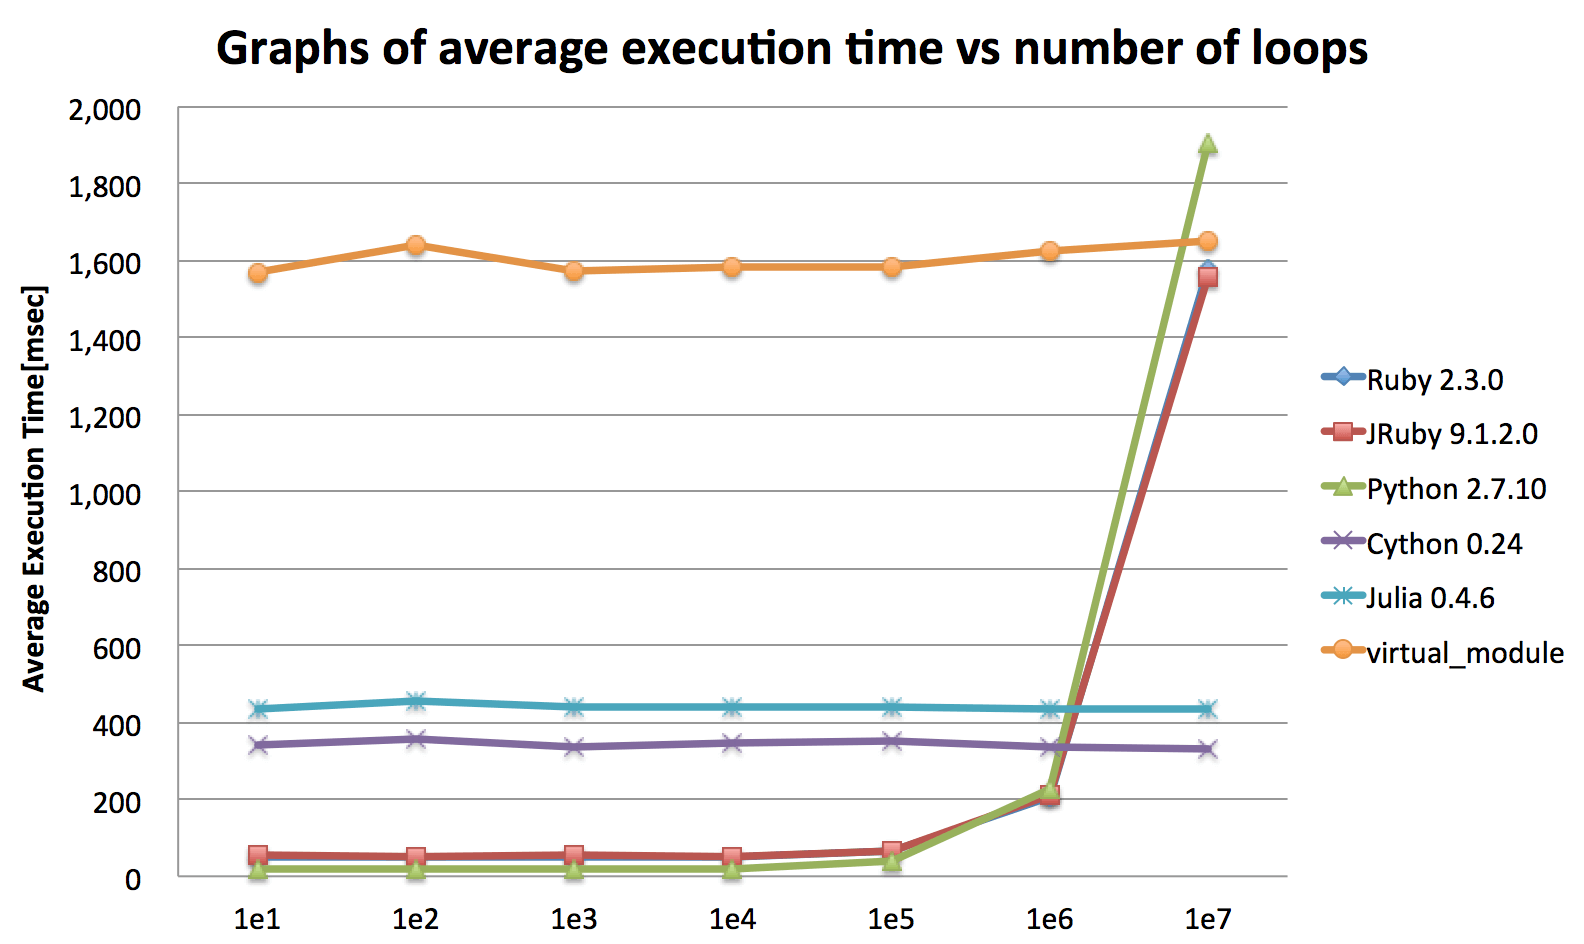
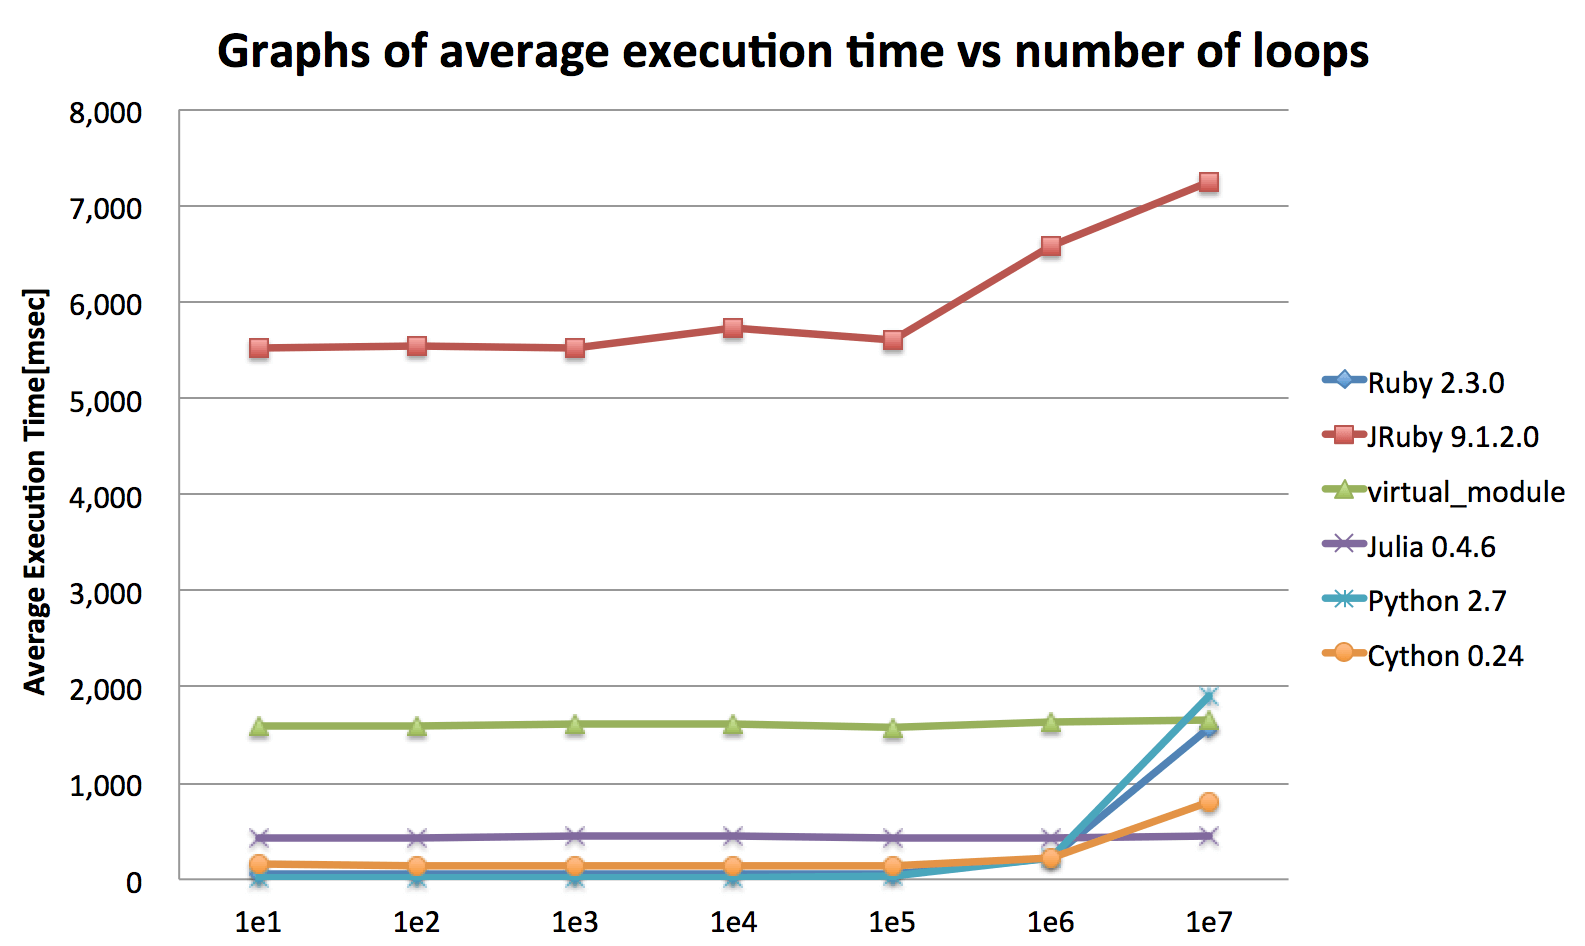
fix benchmark score problem: scores for jruby and cython was wrong. updated benchmark program as well.

diff --git a/doc/benchmark_loop_performance/add_two_floating_point_numbers_cumulatively.rb b/doc/benchmark_loop_performance/add_two_floating_point_numbers_cumulatively.rb
@@ -17,19 +17,25 @@ def sample_loop(n)
 end
 
 EOS
-  File.write("#{tempdir}/perf.rb", ruby_source + "p sample_loop(2.5)")
-  File.write("#{tempdir}/perf_with_vm.rb", "p VirtualModule.new(File.read('#{tempdir}/perf.rb')).sample_loop(2.5)")
+  File.write("#{tempdir}/bench.rb", ruby_source + "p sample_loop(2.5)")
+  File.write("#{tempdir}/bench_with_virtual_module.rb", "p VirtualModule.new(File.read('#{tempdir}/bench.rb')).sample_loop(2.5)")
 
-  File.write("#{tempdir}/perf.py", <<EOS)
+  File.write("#{tempdir}/lib.pyx", <<EOS)
 def sample_loop(n):
   for i in range(1,int(#{order_of_computation})+1):
     n=i+n;
   return n
 
-print(sample_loop(2.5))
+EOS
+  File.write("#{tempdir}/bench.py", File.read("#{tempdir}/lib.pyx") + "print(sample_loop(2.5))")
+  File.write("#{tempdir}/bench_with_cython.py",<<EOS)
+import pyximport
+pyximport.install(inplace=True)
+import lib
+print(lib.sample_loop(2.5))
 EOS
 
-  File.write("#{tempdir}/perf.jl", <<EOS)
+  File.write("#{tempdir}/bench.jl", <<EOS)
 function sample_loop(n)
   for i in 1:#{order_of_computation}
     n = i+n
@@ -43,23 +49,22 @@ EOS
     puts "next trial: #{i+1}/#{number_of_trials}"
     Benchmark.bm 10 do |r|
       r.report "Ruby 2.3.0" do
-        p `ruby #{tempdir}/perf.rb`
+        p `ruby #{tempdir}/bench.rb`
       end
       r.report "JRuby 9.1.2.0" do
-        p `jruby #{tempdir}/perf.rb`
+        p `jruby #{tempdir}/bench.rb`
       end
-      r.report "Python 2.7" do
-        p `python #{tempdir}/perf.py`
-      end
-      r.report "Cython 0.24" do
-        p `cython #{tempdir}/perf.py`
+      r.report "virtual_module" do
+        p `ruby -r virtual_module #{tempdir}/bench_with_virtual_module.rb`
       end
       r.report "Julia 0.4.6" do
-        p `julia #{tempdir}/perf.jl`
+        p `julia #{tempdir}/bench.jl`
       end
-      `rbenv local 2.3.0`
-      r.report "virtual_module" do
-        p `ruby -r virtual_module #{tempdir}/perf_with_vm.rb`
+      r.report "Python 2.7" do
+        p `python #{tempdir}/bench.py`
+      end
+      r.report "Cython 0.24" do
+        p `python #{tempdir}/bench_with_cython.py`
       end
     end.each do |e|
       score[e.label] = [] if score[e.label].nil?

diff --git a/README.md b/README.md
@@ -2,72 +2,90 @@
 
 If you have ever felt at all disappointed seeing Ruby's computational performance particularly for large-scale scientific computation, VirtualModule may save you a little. It offers you a way to run your arbitrary Ruby code on the other language VM process(currently only Julia is supported). What make VirtualModule possible to do this is [ruby2julia transpiler](https://github.com/remore/julializer)(which is at very early stage of development) and IPC using [msgpack](http://msgpack.org/).
 
-Let's take a look at results of [benchmark program](https://github.com/remore/virtual_module/blob/master/doc/benchmark_loop_performance/add_two_floating_numbers_cumulatively.rb) of which scores were taken on my MacBook Pro(OSX10.11, Core i5 2.9GHz, 8GB). Essentially this benchmarking program just repeats adding an integer value to floating point value cumulatively(which is represented as `x=2.5; 1.upto(N){|i| x=x+i}` in Ruby). If you run this program with setting of smaller number of loops, VirtualModule doesn't make sense at all as you can see:
+Let's take a look at results of [benchmark program](https://github.com/remore/virtual_module/blob/master/doc/benchmark_loop_performance/add_two_floating_numbers_cumulatively.rb) of which scores were taken on my MacBook Pro(OSX10.11, Core i5 2.9GHz, 8GB). Essentially this benchmarking program just repeats adding an integer value to floating point value cumulatively(which is represented as `x=2.5; 1.upto(N){|i| x=x+i}` in Ruby). If you run this program with setting of smaller number of loops(upto 10,000,000 times), VirtualModule doesn't make sense at all as you can see:
 
 ![Benchmarking results](https://raw.githubusercontent.com/remore/virtual_module/master/doc/assets/benchmark-result-from-1e1-to-1e7.png "Graphs of average execution time vs number of loops(MacBook Pro)")
 
-However as the number of loops gets bigger, VirtualModule significantly reduces total execution time. (For the sake of honor of python, here is [another benchmarking results](link_to_the_graph_in_case_of_Ubuntu) measured on Ubuntu16 on DigitalOcean. It records better score of python2.7 than the one with my MacBook Pro, although I'm not sure why this happens.)
+However as the number of loops gets bigger(upto 1,000,000,000 times), VirtualModule significantly reduces total execution time.
 
 ![Benchmarking results](https://raw.githubusercontent.com/remore/virtual_module/master/doc/assets/benchmark-result-from-1e1-to-1e9.png "Graphs of average execution time vs number of loops(MacBook Pro)")
 
-The other example here is a [prototype word2vec implementation in Ruby](https://github.com/remore/virtual_module/blob/master/example/word2vec.rb), which is just partially ported from [the one created by Tomas Mikolov at Google](https://code.google.com/archive/p/word2vec/). Since it's not optimized very well yet due to my limited time to work on this example, it doesn't record decent score in terms of speed yet, but it reveals at least the fact that VirtualModule will reduces total execution time considerably even in real world example.
+(For the sake of honor of python, here is [another benchmarking results](link_to_the_graph_in_case_of_Ubuntu) measured on Ubuntu16 on DigitalOcean. It records better score for python2.7 than the one with my MacBook Pro, although I'm not sure why this happens.)
+
+#### An experiment with word2vec
+
+The other example here is a [prototype word2vec implementation in Ruby](https://github.com/remore/virtual_module/blob/master/example/word2vec.rb), which is just partially ported(CBOW model only) from original C implementation([the one created by Tomas Mikolov at Google](https://code.google.com/archive/p/word2vec/)). Since it's not optimized very well yet due to my limited time to work on this example, it doesn't record decent score in terms of speed yet, but it reveals at least the fact that VirtualModule will reduces total execution time considerably even in real world example.
 
 (ToDo: insert an image here of benchmarking result of three types of word2vec implementation)
 
-Of course the vector binary file generated by VirtualModule is available using gemsim for example(I guess few people use this immature implementation, but just to make sure that the binary file works fine, let me please note these command logs):
+Of course the vector binary file format generated through VirtualModule is compatible with original C implementation:
 
 ```
-$ ruby example/word2vec.rb --output ./output/word_vectors.bin --train ./training_data/1mb.txt --size 20 --window 10 --negative 5 --sample 1e-4 --binary 1 --iter 3 --debug 0
+$ cd example
+$ ruby word2vec.rb --output /tmp/vectors.bin --train ../doc/benchmark_word2vec/training_data/10mb.txt --size 20 --window 10 --negative 5 --sample 1e-4 --binary 1 --iter 3 --debug 0 > /dev/null 2>&1
 $ python
+Python 2.7.12 |Anaconda 4.1.1 (x86_64)| (default, Jul  2 2016, 17:43:17)
+[GCC 4.2.1 (Based on Apple Inc. build 5658) (LLVM build 2336.11.00)] on darwin
+Type "help", "copyright", "credits" or "license" for more information.
+Anaconda is brought to you by Continuum Analytics.
+Please check out: http://continuum.io/thanks and https://anaconda.org
 >>> import gensim
->>> model = gensim.models.Word2Vec.load_word2vec_format('/tmp/original_10m.bin', binary=True)
->>> model.most_similar("one")
-[(u'eight', 0.9879311323165894), (u'seven', 0.9774171113967896), (u'six', 0.9648457765579224), (u'nine', 0.933282732963562), (u'four', 0.9331086874008179), (u'marina', 0.9280896186828613), (u'luxembourg', 0.9247918128967285), (u'philippe', 0.9187813997268677), (u'charted', 0.916327953338623), (u'nd', 0.9108971357345581)]
+>>> model = gensim.models.Word2Vec.load_word2vec_format('/tmp/vectors.bin', binary=True)
+>>> model.most_similar("food")
+[(u'stocks', 0.9751365184783936), (u'plants', 0.9700579047203064), (u'plentiful', 0.9640038013458252), (u'levels', 0.9591883420944214), (u'feed', 0.9584202170372009), (u'belonging', 0.9538447260856628), (u'almond', 0.9537901878356934), (u'relatively', 0.9530999064445496), (u'layers', 0.9518728256225586), (u'shells', 0.9501994848251343)]
+>>> model.most_similar("japan")
+[(u'netherlands', 0.9741939902305603), (u'china', 0.9712631702423096), (u'county', 0.9686408042907715), (u'spaniards', 0.9669440388679504), (u'vienna', 0.9614173769950867), (u'abu', 0.9587018489837646), (u'korea', 0.9565504789352417), (u'canberra', 0.954473614692688), (u'erupts', 0.9540712833404541), (u'prefecture', 0.9534248113632202)]
 ```
 
 ## Usage and How it works(TBD)
 
-VirtualModule is a Module generator which has only one public api named `VirtualModule#new`. In the following example, VirtualModule returns a new Module which have two public method `#hi` and `#hello`. Since `vm `object is a instance of Module class, you can simply include `vm` object and call `#hello` method in this case.
+To write Ruby code using VirtualModule is something like to write Python code using Cython. Basic concept is to separate large-scale computation algorithm, and isolate them as a module accessible from the base program. Like Cython, VirtualModule is NOT comprehensive approach too but gives you an opportunity to reduce execution time as a compensation of [the hard limitation of Ruby syntax due to ruby2julia transipiler](※READMEへのリンクを張る/アンカータグつきのにするとよい★).
 
 ```
 require 'virtual_module'
 vm = VirtualModule.new(<<EOS)
 def hi
-  "ho"
+  "yo"
 end
 
-def hello(num)
-  num*num
+def init_table(list)
+  for i in 0..list.size-1
+    list[i]+=Random.rand
+  end
+  list
 end
 EOS
-p vm.hi # "ho"
+p vm.hi # "yo"
 include vm
-p hello(33) # 1089
+p init_table([1,20]) # [1.3066601775641218, 20.17001189249985]
 ```
 
-What VirtualModule do at the code above is something like below:
+As this sample snippet shows, VirtualModule is a Module generator which has only one public api named `VirtualModule#new`. Since `VirtualModule#new` returns a instance of Module class, user can simply include `vm` object that's why `#init_table` method is called in the context of `self`.
 
- - Transpile `#def` and `#hello` methods into Julia code, using [julializer] rubygem.
- - Boot the transpiled code and pass the parameters via msgpack-ruby and MsgPack.jl
- - Run #hi or #hello function call on the Julia VM
- - Pass returend value back to ruby via msgpack-ruby and MsgPack.jl
+In detail, when you run VirtualModule, following processing are happening internally. It's just a typical procedures of an RPC call.
 
-Another important api I'm introducing is `virtual_module_eval`. With this method, you can bind your local variable to Julia. Yey!
+ * VirtualModule calls `Julializer#ruby2julia` to transpile `#hi` and `#init_table` methods into raw Julia code
+ * Prepare glue code to send and receive parameters from/to Julia and add this to (1)
+ * Run (2) thruogh Julia VM process and pass the parameters using msgpack-ruby and MsgPack.jl
+ * Receive returnedd value passed from Julia
+
+What makes VirtualModule different from normal RPC call is `#virtual_module_eval` method. It offers a convenient way to eval arbitary code as if it's executed on the context of `self`. Most important note here is by this way, you can even pass type information about arguments like below.
 
 ```
-vm = VirtualModule.new(<<EOS)
-def hey(x,y)
-  y[2] += x
+class FloatArray < Array
 end
-a = 2016
-b = [99, "foobar", 3.1415]
-vm.virtual_module_eval(a,b)
-puts b # 2019.1415
+float_list = FloatArray.new([1.0234, 9.9999])
+vm.virtual_module_eval("init_table(float_list)")
+puts float_list # [1.5765191145261321, 10.270808112990153] is calculated as Array{Float64,1} in Julia, which means much faster computation than Array{Any,1}!
+
+another_vm = VirtualModule.new(<<EOS)
+def multiply_with_pi(x)
+  x * 3.1415
+end
+EOS
+another_vm.virtual_module_eval("num = multiply_with_pi(num)")
+puts num # 72.25450000000001
 ```
-
-## Build Your Own IPCInterface
-
-TBD
 
 ## Requirement
 
@@ -92,7 +110,9 @@ Following features are implemented already:
 
 features to be implemented in the future(if needed/requested) are listed as follows:
 
+- A bug fix for `#virtual_module_eval`: return value has a bug whenever argument has more than two lines.
 - Improve julializer(transpiler) much better
+  - word2vec implementation is another interesting option to improve
 - Other programming language support such as golang, ruby itself etc.
 
 ## License
